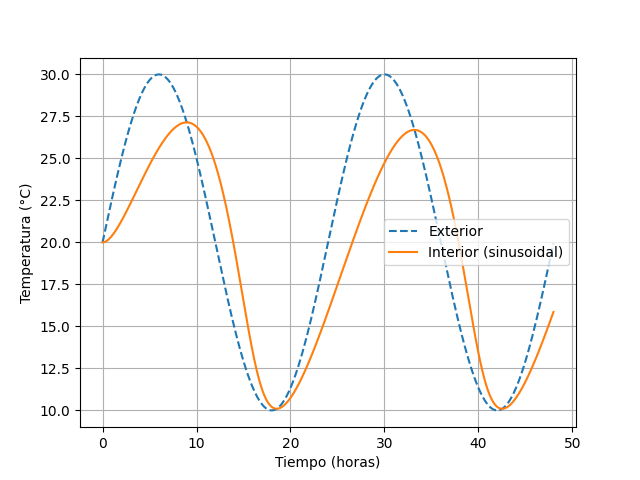
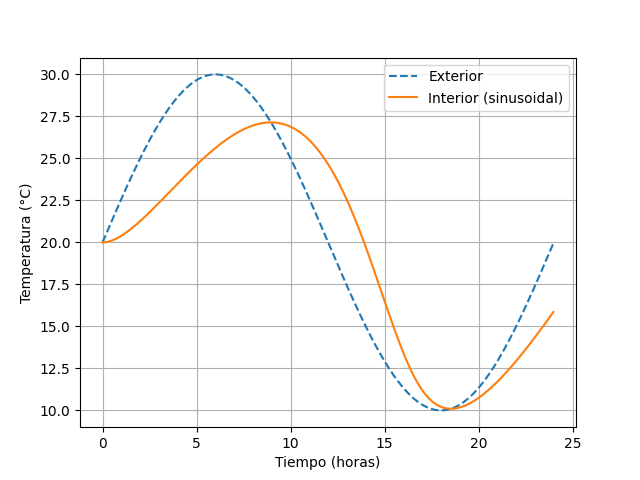
Plantatest24

diff --git a/TP2/main_planta_test.py b/TP2/main_planta_test.py
@@ -67,7 +67,7 @@ def Rv_random_toggle(t):
 
 def Rv_step_change(t):
     # cerrada la primera mitad de la simulación, abierta la segunda
-    total_seconds = 48 * 3600
+    total_seconds = 24 * 3600
     return planta.Rv_max if t < (total_seconds / 2) else 0
 
 CASES = {
@@ -84,7 +84,7 @@ os.makedirs(OUT_DIR, exist_ok=True)
 
 def run_case(name, func):
     controlador = ControladorPorFun(func, planta)
-    t, v_hist, ve, Rv_hist = simular(planta, controlador, 48 * 3600)
+    t, v_hist, ve, Rv_hist = simular(planta, controlador, 24 * 3600)
     v = np.array(v_hist)
     summary = {
         'final': float(v[-1]),
